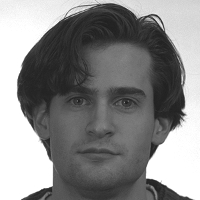
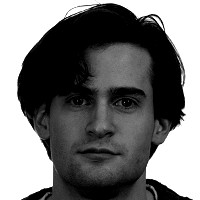
fixed image bug and ncreased response duration for vividness

diff --git a/Code/trialProcedureImageryAttention.m b/Code/trialProcedureImageryAttention.m
@@ -68,13 +68,14 @@ for trial = 1:rows
     % draw vividness question
     drawStereoInstruction(ptb, trialStim.finalQText);
     vividOnset = Screen('Flip', ptb.window);
-    vividEnd = vividOnset + design.maxVividTime;
-    %collect vividness response
-    [vividResponse, vividRT] = getFirstResponse(ptb, vividOnset, vividEnd);
-    
+    vividEnd = vividOnset + design.maxVividTime; % allow response during ITI
+
     % draw ITI (blank)
     drawStereoBlanks(ptb, design)
-    ITIOnset = Screen('Flip', ptb.window);
+    ITIOnset = Screen('Flip', ptb.window, vividEnd);
+    %collect vividness response
+    [vividResponse, vividRT] = getFirstResponse(ptb, vividOnset, vividEnd + design.ITI);
+
     trialStartTime = ITIOnset + design.ITI;
 
 
@@ -168,13 +169,16 @@ end
 
 function img = loadImage(folder, name)
 filename = fullfile(folder, name + ".png");
-[img,~,alpha] = imread(filename);
-%img(:,:,4) = alpha;
+info = imfinfo(filename);
+img = imread(filename);
+if isfield(info, 'Transparency')
+    alpha = info.Transparency;
+else
+    alpha = [];
+end
 end
 
 function drawStereoInstruction(ptb, text)
-% PURE DRAW FUNCTION (NO TIMING LOGIC)
-
 Screen('SelectStereoDrawBuffer', ptb.window, ptb.leftBuffer);
 DrawFormattedText(ptb.window, text, 'center', 'center', ptb.FontColor);
 
@@ -199,7 +203,7 @@ while GetSecs < tEnd
             resp   = find(firstPress == tPress,1);
             rt     = tPress - tStart;
             %fprintf('RT from stim  = %.3f\n', tPress - tStart);
-            %fprintf('Response: %d (RT = %.3f s)\n', resp, rt);
+            fprintf('Response recorded: %d (RT = %.3f s)\n', resp, rt);
         end
     end
     WaitSecs(0.001);   % reduces CPU load
@@ -226,11 +230,11 @@ rightImgName = rightEyeStim + "_gray";
 
 switch condition
     case "imagery"
-        taskStimulus = "";
+        taskStimulus = "black_square";
         if cue == "house"; cueTxt = design.cueHouseText; else; cueTxt = design.cueFaceText;end
         finalQuestion = design.finalQuestionImagery;
     case "perception"
-        taskStimulus = cue + "_gray";
+        taskStimulus = cue + "_30" + "_gray";
         if cue == "house"; cueTxt = design.cueHouseText; else; cueTxt = design.cueFaceText;end
         finalQuestion = design.finalQuestionPerception;
     case "attention"

diff --git a/Code/imageryAttentionOnset.m b/Code/imageryAttentionOnset.m
@@ -19,9 +19,9 @@ modus = 'testing';
 design.instructionWaitDuration  = 0.5;
 
 design.stimulusPresentationTime = 1 - ptb.ifi/2;
-design.taskDuration             = 5 -ptb.ifi/2;
+design.taskDuration             = 6 -ptb.ifi/2;
 design.maxVividTime             = 2 - ptb.ifi/2;
-design.ITI                      = 3 - ptb.ifi/2;
+design.ITI                      = 5 - ptb.ifi/2;
 design.maxReportTime            = 2 - ptb.ifi/2;
 design.cueDuration              = 0.5 - ptb.ifi/2;
 
@@ -35,7 +35,7 @@ trialSequence = buildTrialSequence(design.stimLookupTable, conditions);
 
 %%%%%%%%%% MODUS %%%%%%%%%%
 if strcmp(modus, 'testing')
-    rows = 2;
+    rows = 10;
 elseif strcmp(modus, 'full')
     rows=height(trialSequence);
 end

diff --git a/Code/main.m b/Code/main.m
@@ -57,7 +57,7 @@ design.fusionMaskInPixelsX       = int16(round(ptb.PixPerDegWidth*design.fusionM
 design.fusionMaskInPixelsY       = int16(round(ptb.PixPerDegHeight*design.fusionMaskInDegrees)); 
 
 % prepare fusion mask texture
-fusionMask = imread(fullfile(myPaths.conditionPath, 'background.jpg'));
+fusionMask = imread(fullfile(myPaths.conditionPath, 'background.png'));
 fusionMaskResized = imresize(fusionMask, [design.fusionMaskInPixelsX, design.fusionMaskInPixelsY]);
 design.backGroundTexture = Screen('MakeTexture', ptb.window, fusionMaskResized);
 

diff --git a/Code/settings/PTBSettings.m b/Code/settings/PTBSettings.m
@@ -53,7 +53,7 @@ switch ptb.SetUp
         % It helps in this case to allow them to use different interfaces
         % provided by the same device
         ptb.Keyboard1 = keyboardIndices(1);
-        ptb.Keyboard2 = keyboardIndices(2); % (change back to 1 if this doesnt work)
+        ptb.Keyboard2 = keyboardIndices(1); % (change back to 1 if this doesnt work)
         fprintf('\n=> Subjects keyboard Nr.: %u  %s \n',ptb.Keyboard2, productNames{1});
         fprintf('\n=> Experimenter keyboard Nr.: %u  %s \n',ptb.Keyboard2, productNames{1});
 
